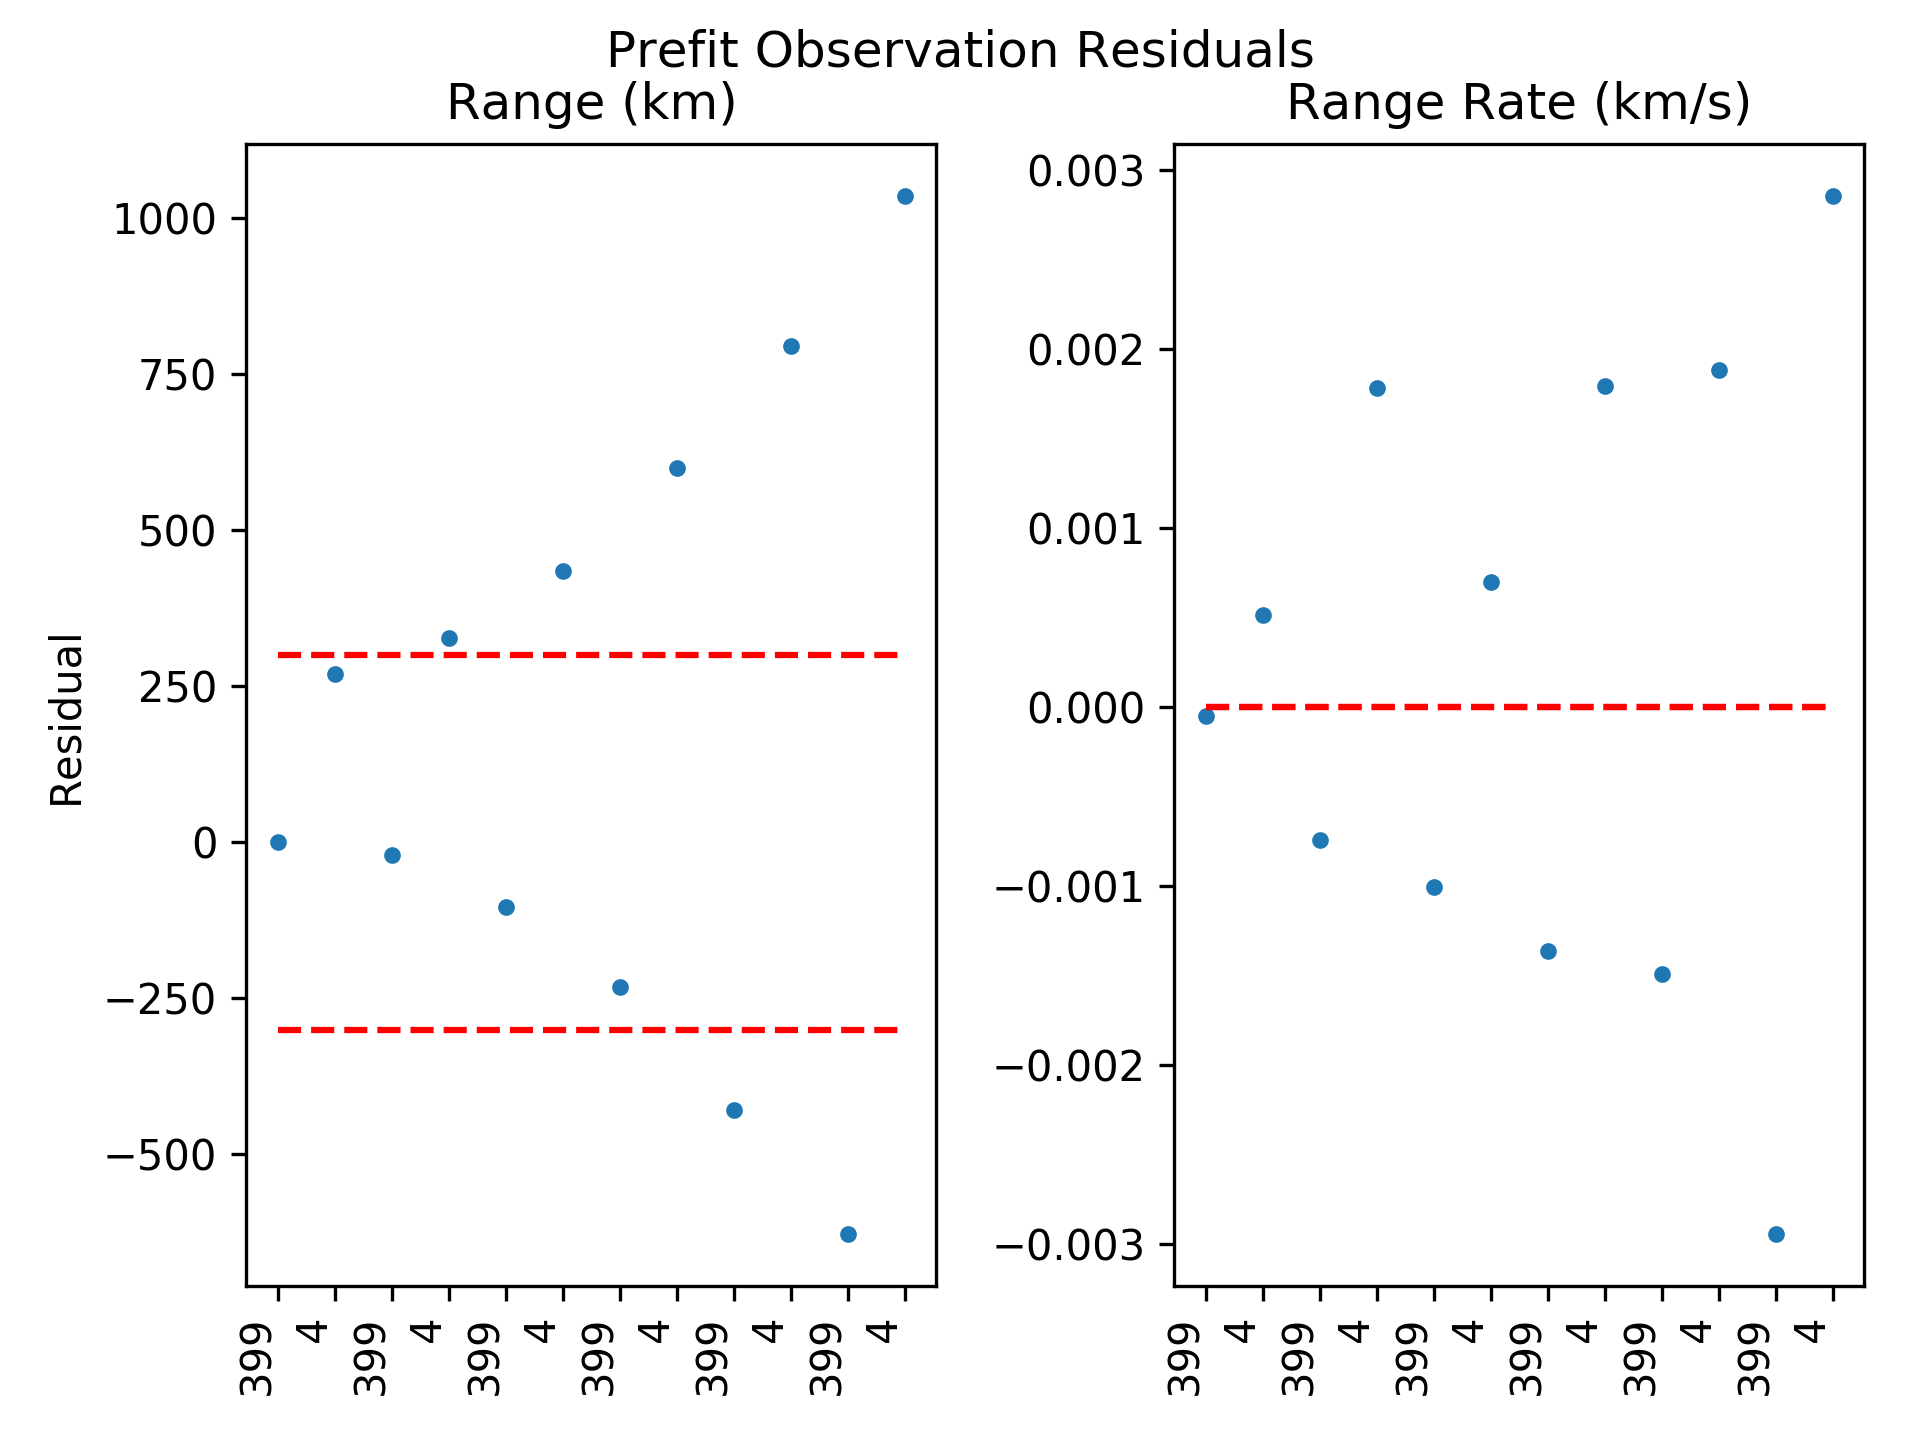
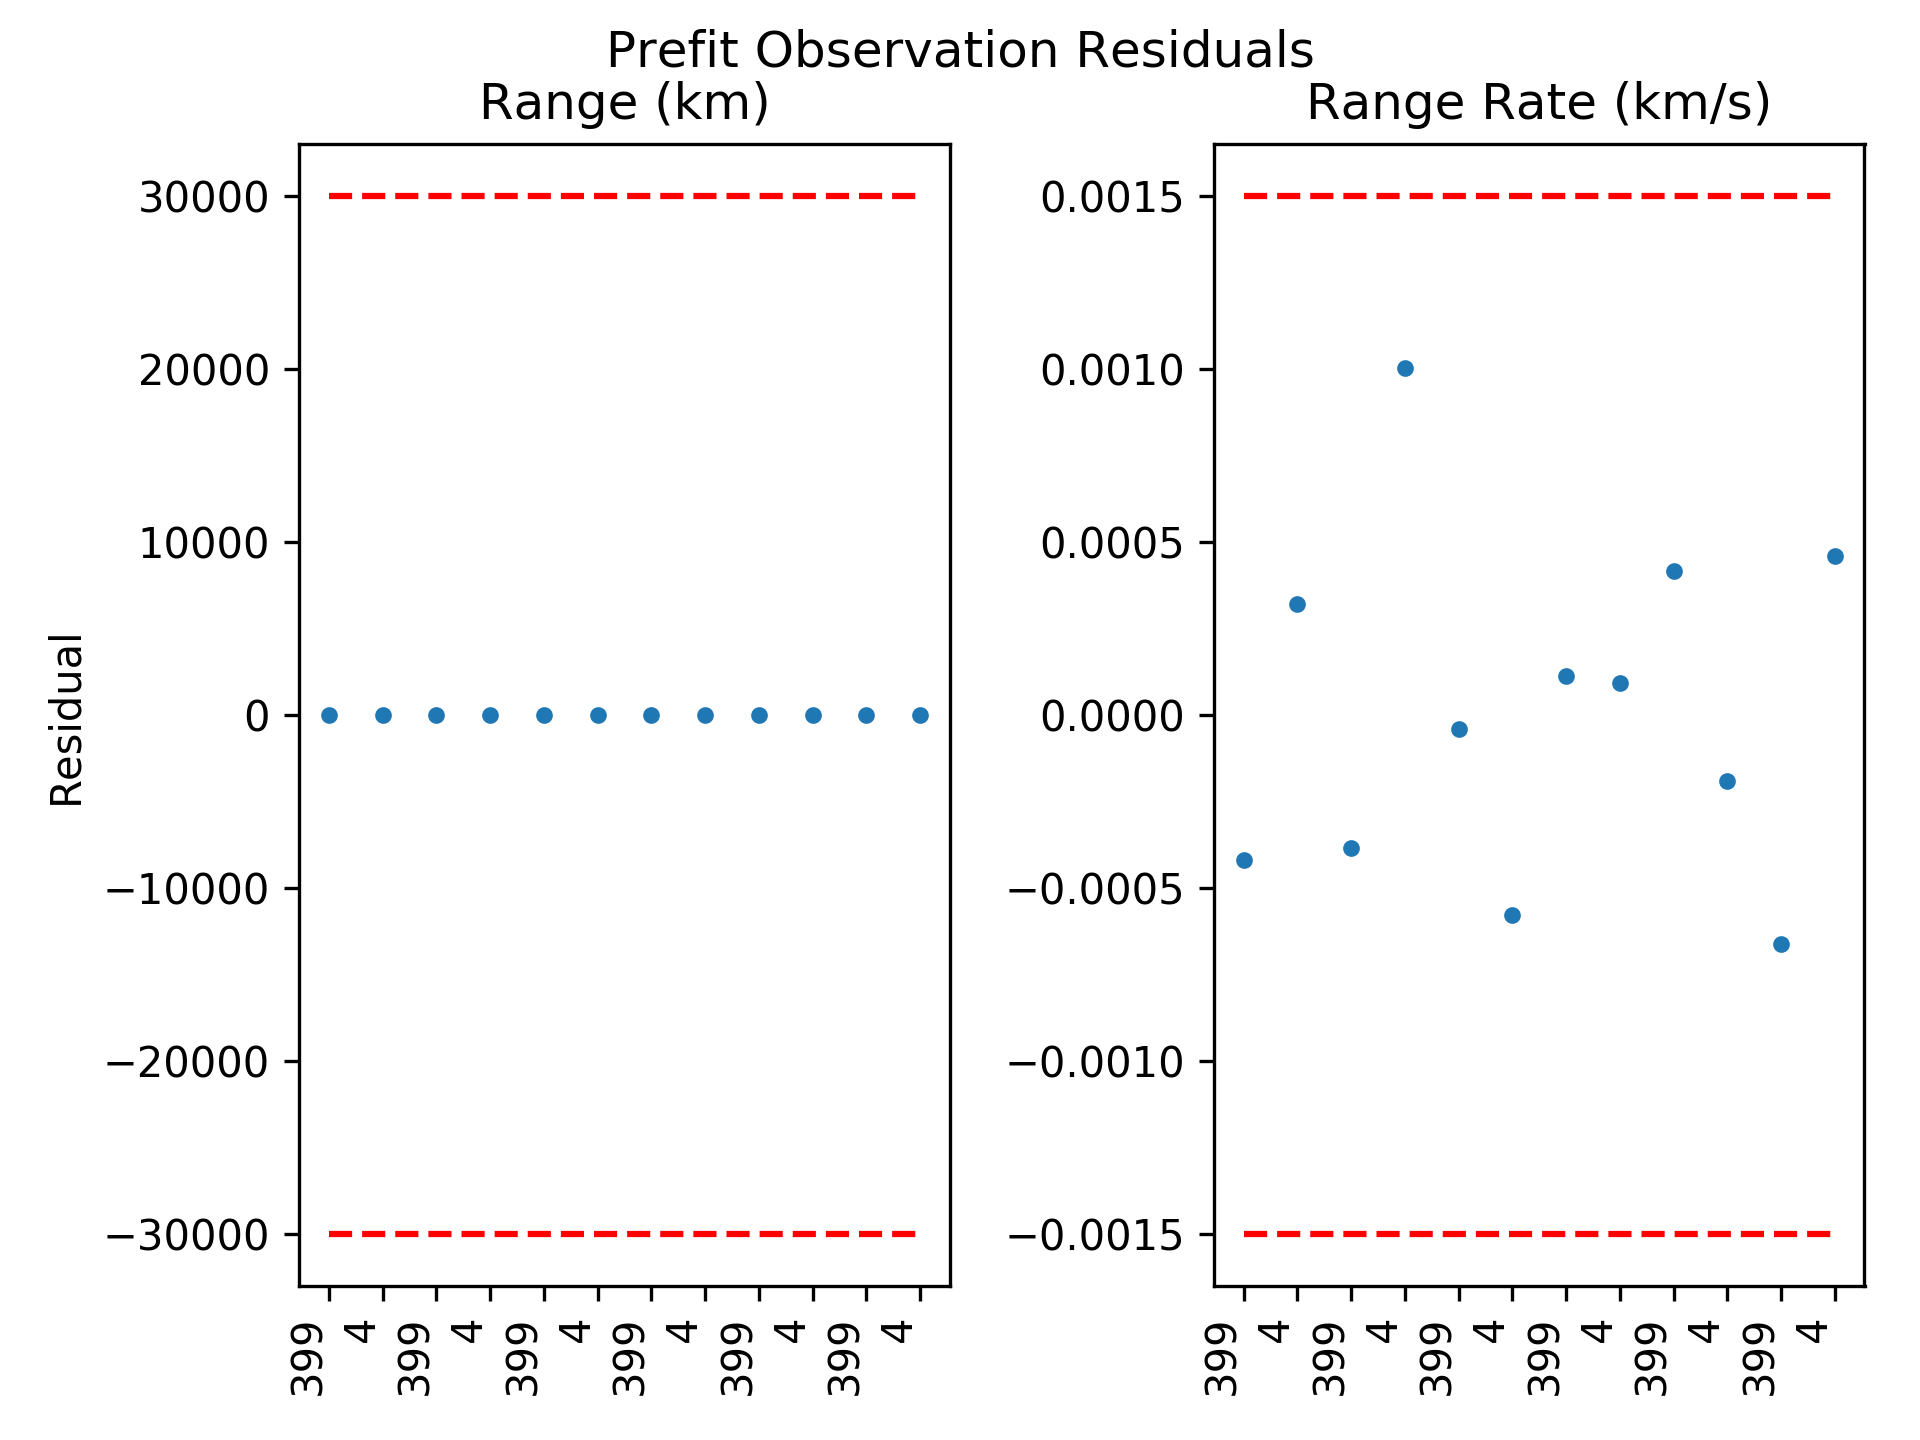
Added variables for debugging, new plots, and different interation

diff --git a/DINObatch/init.py b/DINObatch/init.py
@@ -134,7 +134,7 @@ def main():
 
     # body vector for SUN, EARTH, MARS
     # CODE RELIES ON SUN BEING INDEXED AS 0
-    extras['bodies'] = ['SUN', '1', '2']
+    extras['bodies'] = ['SUN', '3', '399']
 
     # specify primary and secondary
     extras['primary'] = 0
@@ -162,8 +162,10 @@ def main():
     extras['SNC'] = (2*10**(-4))**3
 
     # Number of batch iterations
-    extras['iterations'] = 2
+    extras['iterations'] = 3
 
+    # Initializing the error
+    extras['x_hat_0'] = 0
 
     ##################################################################################
     #
@@ -181,16 +183,19 @@ def main():
 
     # a priori uncertainty for the ref_states
     P_bar = np.zeros((IC.shape[0], IC.shape[0]))
-    P_bar[0, 0] = 5000**2
-    P_bar[1, 1] = 5000**2
-    P_bar[2, 2] = 5000**2
-    P_bar[3, 3] = .005**2
-    P_bar[4, 4] = .005**2
-    P_bar[5, 5] = .005**2
+    P_bar[0, 0] = 10**2
+    P_bar[1, 1] = 10**2
+    P_bar[2, 2] = 10**2
+    P_bar[3, 3] = .01**2
+    P_bar[4, 4] = .01**2
+    P_bar[5, 5] = .01**2
+
+    position_error = np.zeros(3)
+    velocity_error = np.zeros(3)
 
     # add uncertainty to the IC
-    position_error = 500 * np.divide(IC[0:3], norm(IC[0:3]))
-    velocity_error = .005 * np.divide(IC[3:6], norm(IC[3:6]))
+    position_error = 5 * np.divide(IC[0:3], norm(IC[0:3]))
+    velocity_error = .05 * np.divide(IC[3:6], norm(IC[3:6]))
 
     IC += np.append(position_error, velocity_error)
 
@@ -242,6 +247,9 @@ def main():
     # compare the estimated and true trajectories: estimated state errors
     err_hat = est_state[:, 0:6] - true_ephem['spacecraft'].T
 
+    print 'Estimated x_hat_0 = ', extra_data['x_hat_0']
+    print 'Actual Error = ' , position_error , velocity_error
+
     print 'Last X Pos err = ' + str(err[-1, 0])
     print 'Last Y Pos err = ' + str(err[-1, 1])
     print 'Last Z Pos err = ' + str(err[-1, 2])
@@ -276,14 +284,14 @@ def main():
     plt.ylabel('x (km)')
     plt.xticks([])
     plt.title('Position')
-    plt.ylim((-np.max(x_hat_array[:,0:3]), np.max(x_hat_array[:,0:3])))
+    plt.ylim((-np.max(stand_devs[:, 0]), np.max(stand_devs[:, 0])))
 
     plt.subplot(323)
     plt.plot(t_span, stand_devs[:, 1], 'r--', t_span, -1 * stand_devs[:, 1], 'r--')
     plt.plot(t_span, x_hat_array[:, 1], 'k.')
     plt.ylabel('y (km)')
     plt.xticks([])
-    plt.ylim((-np.max(x_hat_array[:,0:3]), np.max(x_hat_array[:,0:3])))
+    plt.ylim((-np.max(stand_devs[:, 1]), np.max(stand_devs[:, 1])))
 
     plt.subplot(325)
     plt.plot(t_span, stand_devs[:, 2], 'r--', t_span, -1 * stand_devs[:, 2], 'r--')
@@ -292,7 +300,7 @@ def main():
     plt.xticks([min(t_span), max(t_span)], rotation=30, ha='right')
     ax = plt.gca()
     ax.set_xticklabels(['t_0', 't_f'])
-    plt.ylim((-np.max(x_hat_array[:,0:3]), np.max(x_hat_array[:,0:3])))
+    plt.ylim((-np.max(stand_devs[:, 2]), np.max(stand_devs[:, 2])))
 
     plt.subplot(322)
     plt.plot(t_span, stand_devs[:, 3], 'r--', t_span, -1 * stand_devs[:, 3], 'r--')
@@ -300,7 +308,7 @@ def main():
     plt.ylabel('vx (km/s)')
     plt.xticks([])
     plt.title('Velocity')
-    plt.ylim((-np.max(x_hat_array[:,3:6]), np.max(x_hat_array[:,3:6])))
+    plt.ylim((-np.max(stand_devs[:, 3]), np.max(stand_devs[:, 3])))
 
 
     plt.subplot(324)
@@ -308,7 +316,7 @@ def main():
     plt.plot(t_span, x_hat_array[:, 4], 'k.')
     plt.ylabel('vy (km/s)')
     plt.xticks([])
-    plt.ylim((-np.max(x_hat_array[:,3:6]), np.max(x_hat_array[:,3:6])))
+    plt.ylim((-np.max(stand_devs[:, 4]), np.max(stand_devs[:, 4])))
 
     plt.subplot(326)
     plt.plot(t_span, stand_devs[:, 5], 'r--', t_span, -1 * stand_devs[:, 5], 'r--')
@@ -317,7 +325,7 @@ def main():
     plt.xticks([min(t_span), max(t_span)], rotation=30, ha='right')
     ax = plt.gca()
     ax.set_xticklabels(['t_0', 't_f'])
-    plt.ylim((-np.max(x_hat_array[:,3:6]), np.max(x_hat_array[:,3:6])))
+    plt.ylim((-np.max(stand_devs[:, 5]), np.max(stand_devs[:, 5])))
 
     plt.suptitle('State Errors and Standard Deviations')
     plt.tight_layout()
@@ -424,8 +432,8 @@ def main():
     plt.figure(4)
     plt.subplot(121)
     plt.plot(t_span, prefits[:, 0], '.')
-    plt.plot(t_span, 3*np.ones(len(t_span))*observation_uncertainty[0,0], 'r--')
-    plt.plot(t_span, -3*np.ones(len(t_span))*observation_uncertainty[0,0], 'r--')
+    plt.plot(t_span, 3*np.ones(len(t_span))*observation_uncertainty[0,0]**2, 'r--')
+    plt.plot(t_span, -3*np.ones(len(t_span))*observation_uncertainty[0,0]**2, 'r--')
     plt.xticks([])
     plt.title('Range (km)')
     plt.ylabel('Residual')
@@ -435,8 +443,8 @@ def main():
 
     plt.subplot(122)
     plt.plot(t_span, prefits[:, 1], '.')
-    plt.plot(t_span, 3*np.ones(len(t_span))*observation_uncertainty[1,1], 'r--')
-    plt.plot(t_span, -3*np.ones(len(t_span))*observation_uncertainty[1,1], 'r--')
+    plt.plot(t_span, 3*np.ones(len(t_span))*np.sqrt(observation_uncertainty[1, 1]), 'r--')
+    plt.plot(t_span, -3*np.ones(len(t_span))*np.sqrt(observation_uncertainty[1, 1]), 'r--')
     plt.xticks([])
     plt.title('Range Rate (km/s)')
     plt.xticks(t_span, rotation=90, ha='right')
@@ -451,8 +459,8 @@ def main():
     plt.figure(5)
     plt.subplot(121)
     plt.plot(t_span, postfits[:, 0], '.')
-    plt.plot(t_span, 3*np.ones(len(t_span))*observation_uncertainty[0,0], 'r--')
-    plt.plot(t_span, -3*np.ones(len(t_span))*observation_uncertainty[0,0], 'r--')
+    plt.plot(t_span, 3*np.ones(len(t_span))*np.sqrt(observation_uncertainty[0,0]), 'r--')
+    plt.plot(t_span, -3*np.ones(len(t_span))*np.sqrt(observation_uncertainty[0,0]), 'r--')
     plt.xticks([])
     plt.ylabel('Residual')
     plt.title('Range (km)')
@@ -462,8 +470,8 @@ def main():
 
     plt.subplot(122)
     plt.plot(t_span, postfits[:, 1], '.')
-    plt.plot(t_span, 3*np.ones(len(t_span))*observation_uncertainty[1,1], 'r--')
-    plt.plot(t_span, -3*np.ones(len(t_span))*observation_uncertainty[1,1], 'r--')
+    plt.plot(t_span, 3*np.ones(len(t_span))*np.sqrt(observation_uncertainty[1, 1]), 'r--')
+    plt.plot(t_span, -3*np.ones(len(t_span))*np.sqrt(observation_uncertainty[1, 1]), 'r--')
     plt.xticks([])
     plt.title('Range Rate (km/s)')
     plt.xticks(t_span, rotation=90, ha='right')
@@ -643,7 +651,7 @@ def main():
     plt.suptitle('Est. State - True Ephem.')
     plt.tight_layout()
     plt.subplots_adjust(top=.9)
-    plt.savefig('Figures/State Deviation Est Truth.png', dpi=300, format='png')
+    plt.savefig('Figures/State Deviation Est - Truth.png', dpi=300, format='png')
     return
 
 

diff --git a/DINObatch/batchFilter.py b/DINObatch/batchFilter.py
@@ -189,7 +189,7 @@ def run_batch( input ) :
   # initiate an array to hold the filtered covariances
   P_array = np.zeros( (n_samples, n_state, n_state) )
   # cycle through the observations/reference states and build up the filter data
-  for ii in xrange( extras['n_obs'] ) :
+  for ii in xrange(n_samples) :
       # pull out the STM
       phi_t_t0  = np.reshape( ref_state[ii,n_state:], (n_state,n_state) )
       # matrix multiply the H matrix at time tii with that of the contemporary STM
@@ -208,14 +208,14 @@ def run_batch( input ) :
   ##################################################################################
     
   # perform least squares on the info_matrix and observation matrix to compute the residuals
-  x_hat = np.linalg.lstsq( info_matrix, normal_matrix )[0]
+  x_hat = np.reshape(np.linalg.lstsq( info_matrix, normal_matrix )[0], [6])
 
   # initiate a filtered ref_state
   est_state = np.zeros( (ref_state.shape[0],n_state) )
 
   # initiate an array to hold the filtered covariances
   # P_array = np.zeros( (n_samples, n_state, n_state) )
-  
+
   # the first filtered covariance is the inverse of the covariance matrix
   P = aInv( info_matrix )
 
@@ -234,12 +234,14 @@ def run_batch( input ) :
 
   # inputs for Y_est (G) calculation
   G_est_inputs = ( est_state[:,0:n_state], SPICE_data_GH, extras )
-  
+
   # calculate the estimated observables and organize into an array
   Y_est = fncG( G_est_inputs )
 
   # compute the postfits using the updated observables and the measured values
-  postfits = y
+  postfits = np.zeros([np.shape(x_hat_array)[0], np.shape(y)[1]])
+  for ii in range(np.shape(x_hat_array)[0]):
+    postfits[ii,:] = y[ii,:] - np.dot(H_tilde[0+2*ii:2+2*ii,:], x_hat_array[ii,:])
 
 
   # store various arrays in a data dictionary
@@ -249,6 +251,8 @@ def run_batch( input ) :
   extra_data['x_hat_array']       = x_hat_array
   extra_data['prefit residuals']  = y
   extra_data['postfit residuals'] = postfits
+  extras['x_hat_0']               += x_hat
+  extra_data['x_hat_0']           = extras['x_hat_0']
 
 
   return ref_state, est_state, extra_data
